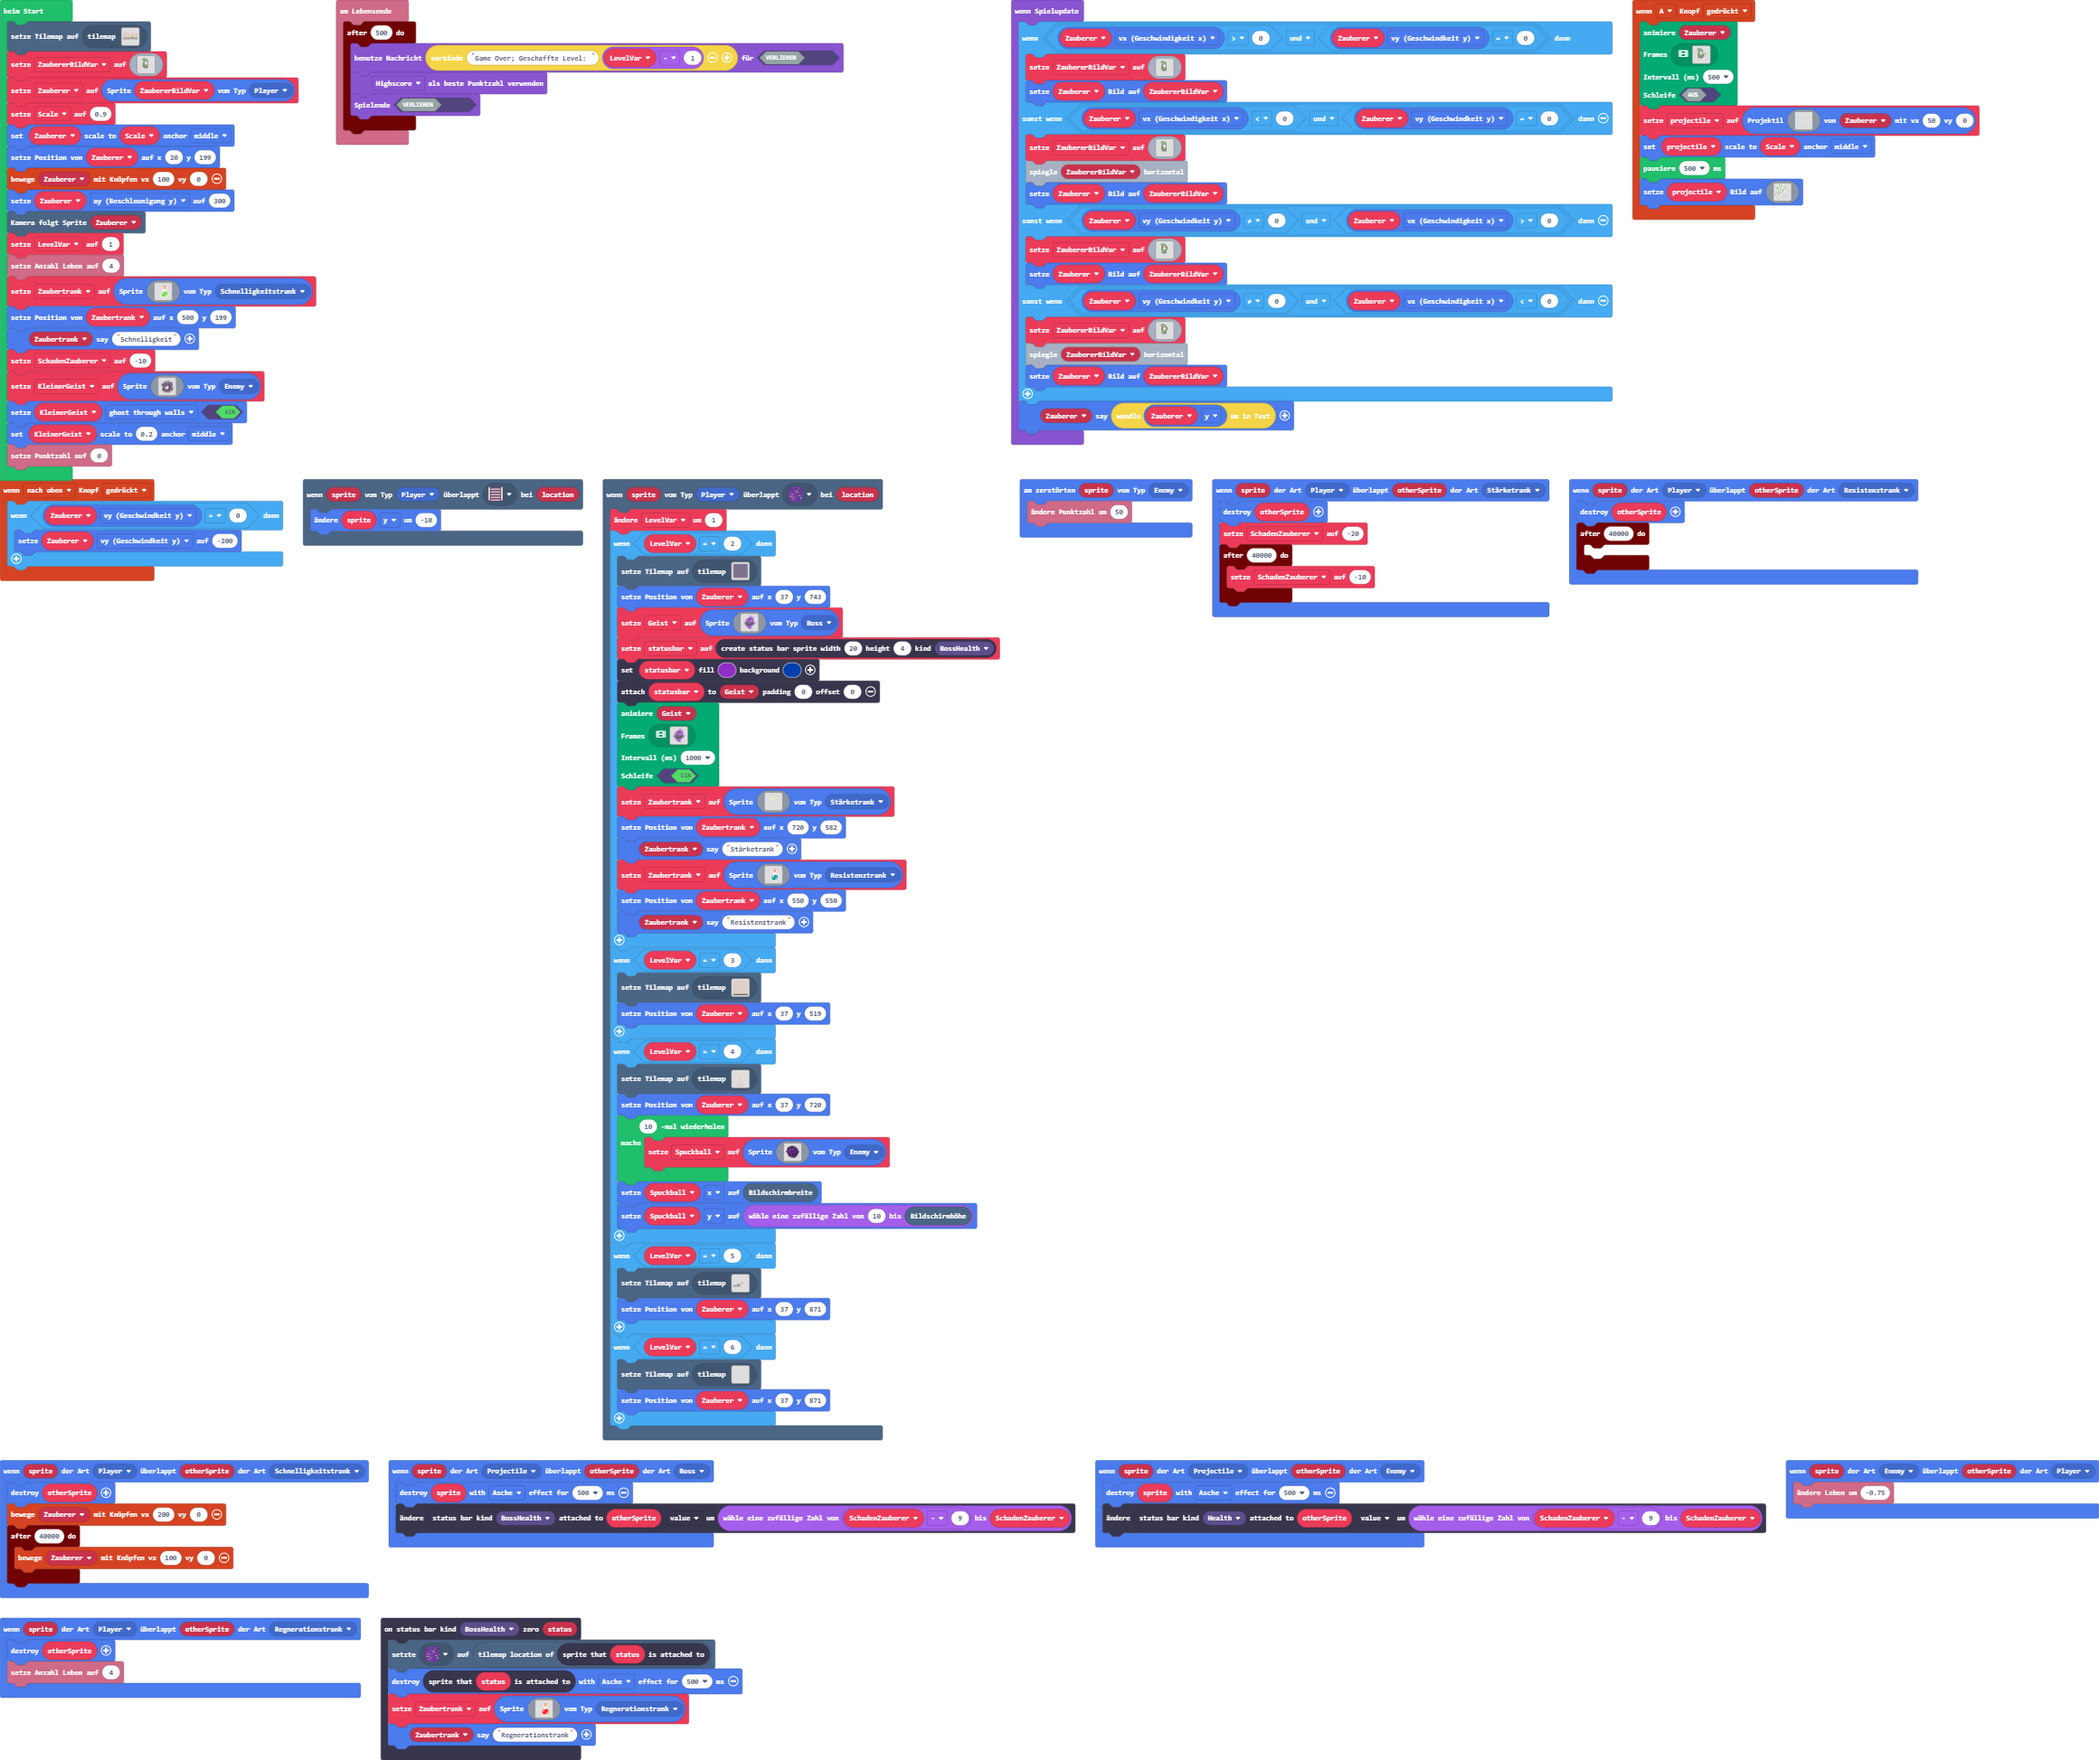
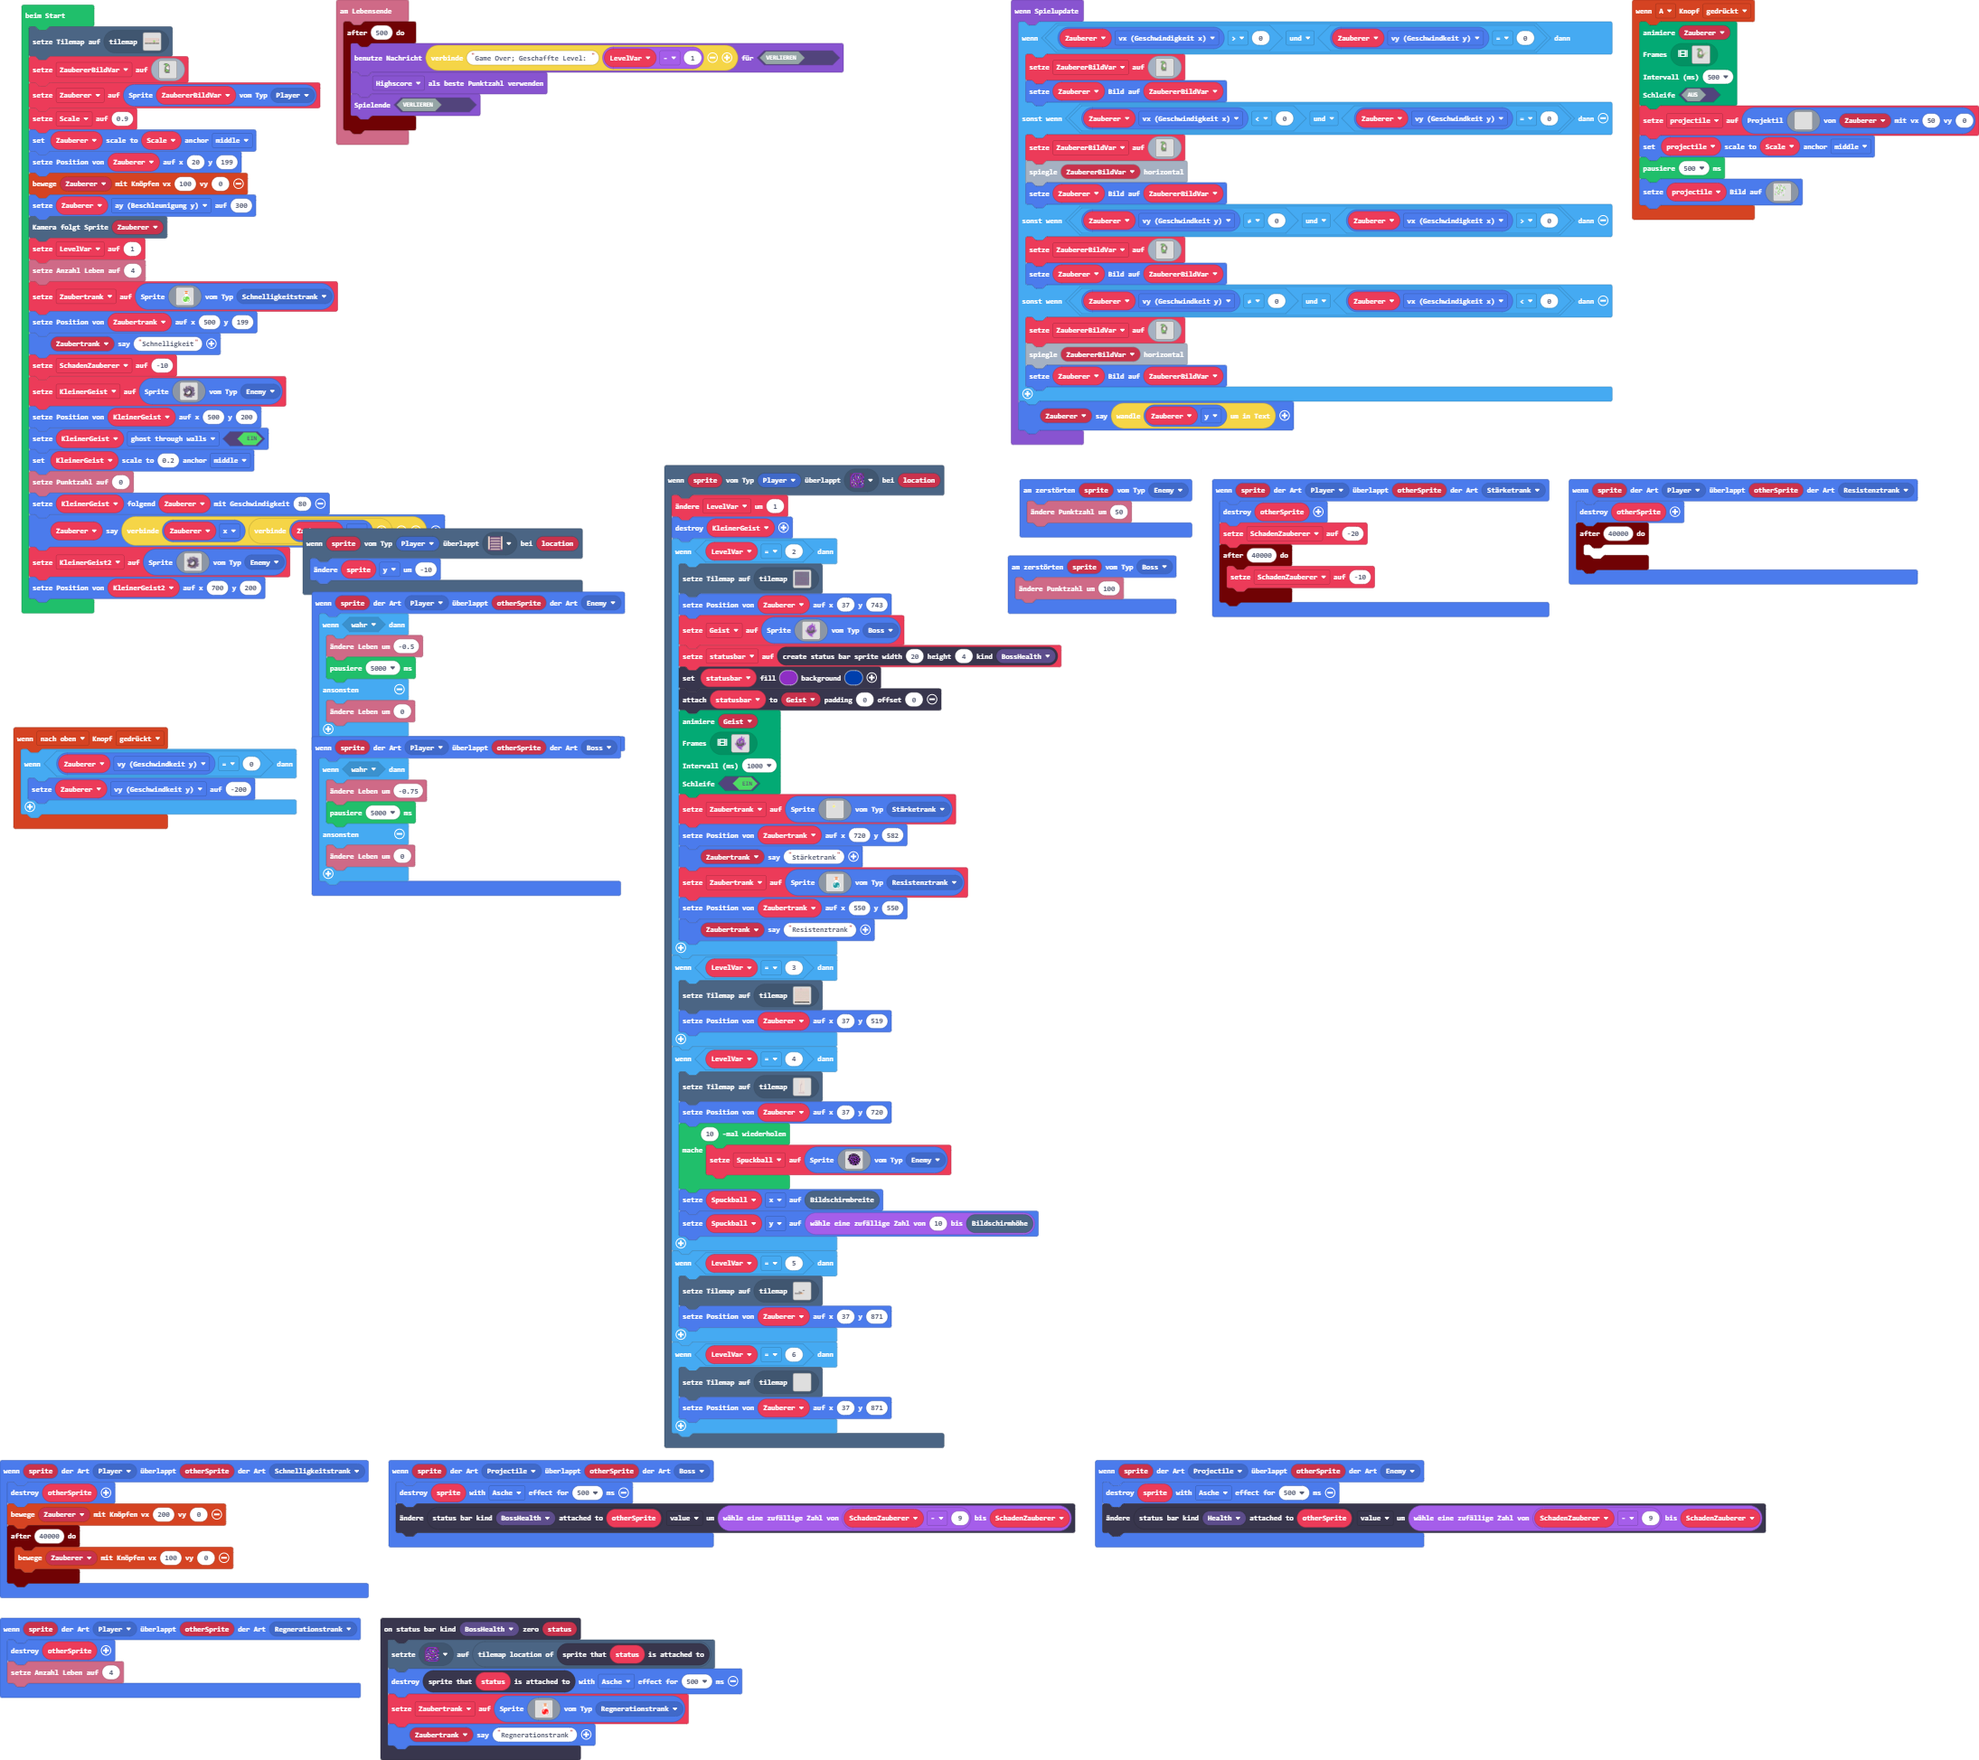
Aktualisiere pxt.json, main.blocks, main.ts

Changed region(s): [[0.0, 0.0, 1.0, 0.8937], [0.1553, 0.8937, 0.3728, 1.0], [0.0, 0.9245, 0.0932, 0.9553]]

diff --git a/main.ts b/main.ts
@@ -46,6 +46,9 @@ sprites.onOverlap(SpriteKind.Projectile, SpriteKind.Boss, function (sprite, othe
     sprites.destroy(sprite, effects.ashes, 500)
     statusbars.getStatusBarAttachedTo(StatusBarKind.BossHealth, otherSprite).value += randint(SchadenZauberer - 9, SchadenZauberer)
 })
+sprites.onDestroyed(SpriteKind.Boss, function (sprite) {
+    info.changeScoreBy(100)
+})
 sprites.onOverlap(SpriteKind.Player, SpriteKind.Resistenztrank, function (sprite, otherSprite) {
     sprites.destroy(otherSprite)
     timer.after(40000, function () {
@@ -54,6 +57,7 @@ sprites.onOverlap(SpriteKind.Player, SpriteKind.Resistenztrank, function (sprite
 })
 scene.onOverlapTile(SpriteKind.Player, assets.tile`PortalTile`, function (sprite, location) {
     LevelVar += 1
+    sprites.destroy(KleinerGeist)
     if (LevelVar == 2) {
         tiles.setCurrentTilemap(tilemap`Bossarena1Tilemap`)
         Zauberer.setPosition(37, 743)
@@ -103,9 +107,6 @@ sprites.onOverlap(SpriteKind.Player, SpriteKind.Schnelligkeitstrank, function (s
         controller.moveSprite(Zauberer, 100, 0)
     })
 })
-sprites.onOverlap(SpriteKind.Enemy, SpriteKind.Player, function (sprite, otherSprite) {
-    info.changeLifeBy(-0.75)
-})
 info.onLifeZero(function () {
     timer.after(500, function () {
         game.setGameOverMessage(false, "Game Over; Geschaffte Level: " + (LevelVar - 1))
@@ -124,10 +125,27 @@ sprites.onOverlap(SpriteKind.Projectile, SpriteKind.Enemy, function (sprite, oth
     sprites.destroy(sprite, effects.ashes, 500)
     statusbars.getStatusBarAttachedTo(StatusBarKind.Health, otherSprite).value += randint(SchadenZauberer - 9, SchadenZauberer)
 })
+sprites.onOverlap(SpriteKind.Player, SpriteKind.Enemy, function (sprite, otherSprite) {
+    if (true) {
+        info.changeLifeBy(-0.5)
+        pause(5000)
+    } else {
+        info.changeLifeBy(0)
+    }
+})
+sprites.onOverlap(SpriteKind.Player, SpriteKind.Boss, function (sprite, otherSprite) {
+    if (true) {
+        info.changeLifeBy(-0.75)
+        pause(5000)
+    } else {
+        info.changeLifeBy(0)
+    }
+})
 let Spuckball: Sprite = null
 let statusbar: StatusBarSprite = null
 let Geist: Sprite = null
 let projectile: Sprite = null
+let KleinerGeist: Sprite = null
 let SchadenZauberer = 0
 let Zaubertrank: Sprite = null
 let LevelVar = 0
@@ -148,10 +166,15 @@ Zaubertrank = sprites.create(assets.image`Schnelligkeitstrank`, SpriteKind.Schne
 Zaubertrank.setPosition(500, 199)
 Zaubertrank.sayText("Schnelligkeit")
 SchadenZauberer = -10
-let KleinerGeist = sprites.create(assets.image`KleinerGeistBild`, SpriteKind.Enemy)
+KleinerGeist = sprites.create(assets.image`KleinerGeistBild`, SpriteKind.Enemy)
+KleinerGeist.setPosition(500, 200)
 KleinerGeist.setFlag(SpriteFlag.GhostThroughWalls, true)
 KleinerGeist.setScale(0.2, ScaleAnchor.Middle)
 info.setScore(0)
+KleinerGeist.follow(Zauberer, 80)
+Zauberer.sayText("" + Zauberer.x + ("" + Zauberer.y))
+let KleinerGeist2 = sprites.create(assets.image`KleinerGeistBild`, SpriteKind.Enemy)
+KleinerGeist2.setPosition(700, 200)
 game.onUpdate(function () {
     if (Zauberer.vx > 0 && Zauberer.vy == 0) {
         ZaubererBildVar = assets.image`Magier Normal`
